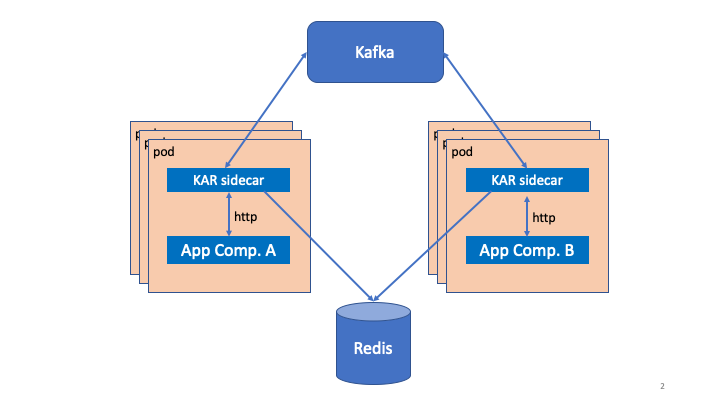
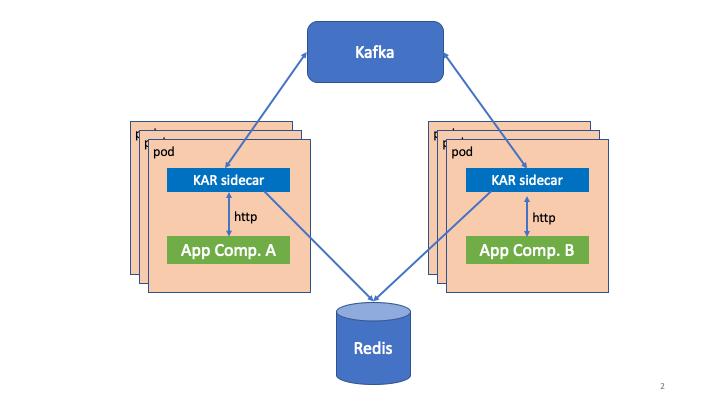
update sidecar pictures in main readme

Changed region(s): [[0.2139, 0.563, 0.4278, 0.6519], [0.6417, 0.563, 0.825, 0.6519]]

diff --git a/README.md b/README.md
@@ -134,7 +134,7 @@ depicted below. The pair of a single application process and single
 sidecar process is the basic building block of a KAR application and
 the unit of [fault-tolerance](#fault-tolerance).
 
-![KAR sidecar and application](docs/images/sidecar-in-pod.png)
+![KAR sidecar and application](docs/images/one-component.png)
 
 The picture below represents the runtime structure of a KAR
 application with two replicated application components, **A** and
